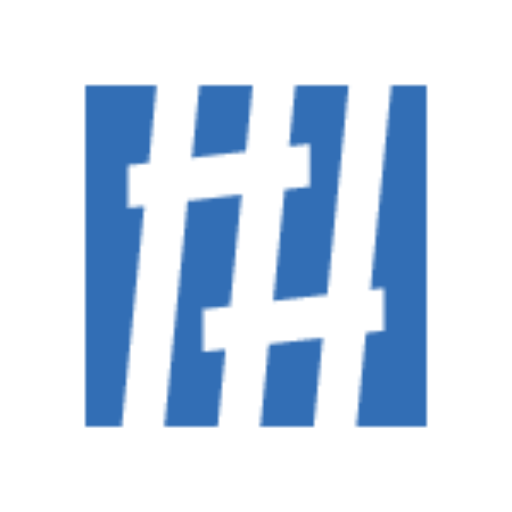
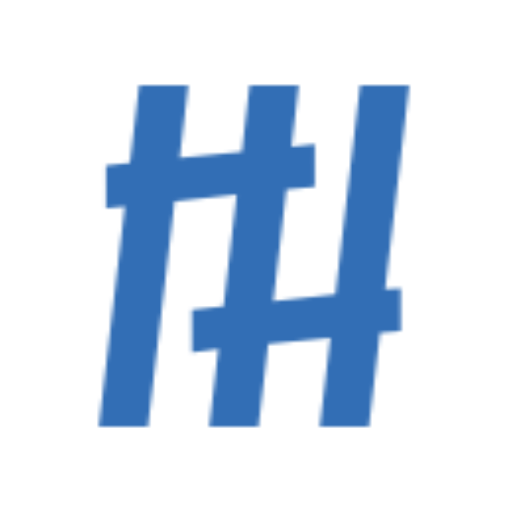
docs: style

diff --git a/index.html b/index.html
@@ -22,7 +22,7 @@
 </head>
 <body>
   <div class="s-header">
-    <svg class="s-header__logo" viewBox="0 0 311 149" fill="none" xmlns="http://www.w3.org/2000/svg"><path d="M172.38 16h-10l-1.17 11.45L165 27v8l-4.62.54-2.14 20.9 10.12-1.19L172.38 16zM175.63 62.4L179 62v-8l-2.54.3 3.92-38.3H187v64h-13.18l1.8-17.6zM167.53 63.35l-10.12 1.19L155.82 80h10l1.7-16.65zM150.14 57.4L145 58v8l4.3-.5-1.48 14.5h-10l4.34-42.31 10.12-1.2-2.14 20.9zM154.38 16l-1.27 12.4L143 29.59 144.4 16h10zM131 31l3.9-.46L136.37 16H123v64h6.82l4.24-41.36L131 39v-8z" fill="#326EB5"/><path d="M20.39 103.01h8.57c3.75 0 6.58.56 8.48 1.68 1.93 1.1 2.9 3.01 2.9 5.76 0 1.76-.5 3.23-1.47 4.4a7 7 0 01-4.24 2.23v.21c1.26.2 2.39.56 3.4 1.1a5.95 5.95 0 012.43 2.26c.6.98.89 2.26.89 3.82 0 2.72-.94 4.82-2.82 6.3-1.85 1.49-4.38 2.23-7.6 2.23H20.39v-29.99zm3.78 12.77h5.54c2.58 0 4.34-.4 5.3-1.22.95-.84 1.42-2.07 1.42-3.7 0-1.65-.59-2.82-1.76-3.52-1.15-.73-3-1.1-5.55-1.1h-4.95v9.54zm0 3.15v10.88h6.05c2.66 0 4.5-.52 5.54-1.56a5.5 5.5 0 001.55-4.07c0-1.57-.54-2.83-1.63-3.78-1.07-.98-2.99-1.47-5.76-1.47h-5.75zm31.56-8.82c2.74 0 4.77.6 6.09 1.8 1.31 1.21 1.97 3.13 1.97 5.76V133H61.1l-.71-3.2h-.17a10.3 10.3 0 01-3.1 2.74c-1.07.59-2.56.88-4.46.88a7.93 7.93 0 01-5.08-1.6c-1.35-1.09-2.02-2.78-2.02-5.08 0-2.24.88-3.96 2.65-5.16 1.76-1.24 4.48-1.9 8.15-2.02l3.82-.13v-1.34c0-1.88-.4-3.18-1.22-3.9a4.98 4.98 0 00-3.44-1.1c-1.18 0-2.3.18-3.36.55-1.07.33-2.06.73-2.99 1.17l-1.13-2.77c.98-.53 2.14-.98 3.49-1.34 1.34-.4 2.74-.59 4.2-.59zm4.4 11.89l-3.31.12c-2.8.11-4.75.56-5.84 1.35a3.88 3.88 0 00-1.6 3.31c0 1.26.38 2.19 1.14 2.78.78.58 1.78.88 2.98.88 1.9 0 3.49-.52 4.75-1.56 1.26-1.06 1.89-2.68 1.89-4.87V122zm35.3-11.93c2.56 0 4.46.66 5.72 1.97 1.26 1.29 1.9 3.39 1.9 6.3V133h-3.66v-14.49c0-3.56-1.53-5.33-4.58-5.33-2.19 0-3.75.63-4.7 1.89-.93 1.26-1.4 3.09-1.4 5.5V133h-3.65v-14.49c0-3.56-1.54-5.33-4.62-5.33-2.26 0-3.83.7-4.7 2.1-.87 1.4-1.3 3.41-1.3 6.04V133h-3.7v-22.51h2.98l.55 3.06h.21a6.46 6.46 0 012.81-2.6 8.6 8.6 0 013.83-.88c3.52 0 5.82 1.26 6.88 3.78h.21a7 7 0 013.07-2.86 9.7 9.7 0 014.16-.92zm18.26-8.99v7.77c0 .95-.03 1.85-.08 2.69-.03.81-.07 1.45-.13 1.93h.21a7.84 7.84 0 012.65-2.4 8.6 8.6 0 014.32-.96c2.8 0 5.04.98 6.72 2.94 1.71 1.93 2.56 4.83 2.56 8.7 0 3.86-.85 6.77-2.56 8.73a8.48 8.48 0 01-6.72 2.94 8.6 8.6 0 01-4.32-.97 8.26 8.26 0 01-2.65-2.3h-.3l-.75 2.85H110v-31.92h3.7zm6.34 12.1c-2.38 0-4.03.68-4.95 2.05-.93 1.38-1.39 3.5-1.39 6.39v.17c0 2.77.45 4.9 1.34 6.38.93 1.46 2.62 2.18 5.09 2.18 2.01 0 3.51-.74 4.5-2.22 1-1.49 1.5-3.63 1.5-6.43 0-5.68-2.03-8.52-6.09-8.52zm35.38 8.52c0 3.73-.95 6.61-2.86 8.65-1.88 2.05-4.42 3.07-7.64 3.07-2 0-3.77-.45-5.34-1.34a9.72 9.72 0 01-3.65-4c-.9-1.76-1.34-3.89-1.34-6.38 0-3.72.93-6.6 2.8-8.6 1.88-2.02 4.43-3.03 7.65-3.03 2.05 0 3.84.46 5.38 1.38a9.1 9.1 0 013.65 3.95c.9 1.71 1.35 3.81 1.35 6.3zm-17.01 0c0 2.66.51 4.78 1.55 6.34 1.06 1.54 2.75 2.31 5.04 2.31 2.27 0 3.94-.77 5-2.3 1.06-1.57 1.6-3.69 1.6-6.35 0-2.66-.54-4.74-1.6-6.26-1.06-1.5-2.75-2.26-5.04-2.26-2.3 0-3.96.75-5 2.26-1.03 1.52-1.55 3.6-1.55 6.26zm42.44 0c0 3.73-.96 6.61-2.86 8.65-1.88 2.05-4.42 3.07-7.64 3.07-2 0-3.77-.45-5.34-1.34a9.72 9.72 0 01-3.65-4c-.9-1.76-1.35-3.89-1.35-6.38 0-3.72.94-6.6 2.82-8.6 1.87-2.02 4.42-3.03 7.64-3.03 2.05 0 3.84.46 5.38 1.38a9.1 9.1 0 013.65 3.95c.9 1.71 1.35 3.81 1.35 6.3zm-17.01 0c0 2.66.51 4.78 1.55 6.34 1.06 1.54 2.74 2.31 5.04 2.31 2.27 0 3.93-.77 5-2.3 1.06-1.57 1.6-3.69 1.6-6.35 0-2.66-.54-4.74-1.6-6.26-1.07-1.5-2.75-2.26-5.04-2.26-2.3 0-3.96.75-5 2.26-1.04 1.52-1.55 3.6-1.55 6.26zm51.29 3.28c0 2.66-.97 4.73-2.9 6.21-1.93 1.49-4.54 2.23-7.81 2.23-1.68 0-3.24-.13-4.66-.38-1.43-.25-2.62-.6-3.57-1.05v-3.61c1 .45 2.25.85 3.73 1.22 1.52.36 3.07.54 4.67.54 2.24 0 3.92-.43 5.04-1.3a4.19 4.19 0 001.72-3.53c0-.98-.21-1.8-.63-2.47a5.68 5.68 0 00-2.19-1.85c-1-.59-2.42-1.2-4.24-1.85-2.55-.92-4.48-2.06-5.8-3.4-1.28-1.35-1.93-3.18-1.93-5.5 0-1.6.41-2.96 1.22-4.08a7.77 7.77 0 013.36-2.64c1.46-.62 3.12-.93 5-.93a19.51 19.51 0 018.27 1.68l-1.17 3.24a22.02 22.02 0 00-3.4-1.14 15.2 15.2 0 00-3.78-.46c-1.88 0-3.3.4-4.25 1.22a3.87 3.87 0 00-1.42 3.15c0 1 .2 1.85.63 2.52.42.67 1.1 1.27 2.05 1.8.96.54 2.24 1.11 3.87 1.73 1.76.64 3.25 1.34 4.45 2.1a7.66 7.66 0 012.77 2.64c.65 1.04.97 2.34.97 3.9zm13.05 5.42c.56 0 1.14-.05 1.73-.13.58-.11 1.06-.22 1.42-.34v2.82c-.39.2-.95.35-1.68.46-.72.14-1.42.21-2.1.21-1.17 0-2.26-.2-3.27-.59a5.18 5.18 0 01-2.4-2.14c-.61-1-.92-2.42-.92-4.24v-13.1h-3.2v-1.77l3.24-1.47 1.47-4.79h2.19v5.17h6.5v2.85h-6.5v13.02c0 1.38.32 2.4.96 3.07.67.64 1.53.97 2.56.97zm16.19-20.29c2.74 0 4.77.6 6.09 1.8 1.31 1.21 1.97 3.13 1.97 5.76V133h-2.69l-.71-3.2h-.17a10.3 10.3 0 01-3.1 2.74c-1.07.59-2.56.88-4.46.88a7.93 7.93 0 01-5.08-1.6c-1.34-1.09-2.02-2.78-2.02-5.08 0-2.24.88-3.96 2.65-5.16 1.76-1.24 4.48-1.9 8.15-2.02l3.82-.13v-1.34c0-1.88-.4-3.18-1.22-3.9a4.98 4.98 0 00-3.44-1.1c-1.18 0-2.3.18-3.36.55-1.07.33-2.06.73-2.98 1.17l-1.14-2.77c.98-.53 2.14-.98 3.49-1.34 1.34-.4 2.74-.59 4.2-.59zm4.4 11.89l-3.31.12c-2.8.11-4.75.56-5.84 1.35a3.88 3.88 0 00-1.6 3.31c0 1.26.38 2.19 1.14 2.78.78.58 1.78.88 2.98.88 1.9 0 3.49-.52 4.75-1.56 1.26-1.06 1.89-2.68 1.89-4.87V122zm18.13 8.4c.56 0 1.14-.05 1.72-.13.6-.11 1.07-.22 1.43-.34v2.82c-.39.2-.95.35-1.68.46-.73.14-1.43.21-2.1.21-1.17 0-2.27-.2-3.27-.59a5.18 5.18 0 01-2.4-2.14c-.61-1-.92-2.42-.92-4.24v-13.1h-3.2v-1.77l3.24-1.47 1.47-4.79h2.18v5.17h6.51v2.85h-6.5v13.02c0 1.38.32 2.4.96 3.07.67.64 1.53.97 2.56.97zm16.35-20.33c1.94 0 3.59.42 4.96 1.26a8.08 8.08 0 013.2 3.57 11.8 11.8 0 011.13 5.33v2.23H277.1c.06 2.55.7 4.5 1.93 5.84 1.26 1.31 3.01 1.97 5.25 1.97 1.43 0 2.7-.13 3.78-.38a22.8 22.8 0 003.45-1.17v3.23c-1.15.5-2.28.87-3.4 1.1-1.13.24-2.45.37-4 .37a12 12 0 01-5.67-1.3 9.25 9.25 0 01-3.82-3.87 13.7 13.7 0 01-1.34-6.34c0-2.46.4-4.58 1.22-6.34a9.6 9.6 0 013.48-4.07 9.64 9.64 0 015.25-1.43zm-.04 3.02c-1.76 0-3.16.58-4.2 1.72-1 1.12-1.6 2.7-1.8 4.7h11.46a7.8 7.8 0 00-1.34-4.61c-.87-1.2-2.24-1.8-4.12-1.8z" fill="#000"/></svg>
+    <img class="s-header__logo" src="./site/resources/logo.svg">
   </div>
 
   <div class="s-container">
@@ -30,25 +30,28 @@
       <h2>What is Bamboo State?</h2>
 
       <p>Bamboo State is a stand-alone state management library written for <i>Bamboo</i>.</p>
-    </div>
-  </div>
 
-  <div class="s-docs">
-    <h2 class="s-docs__title">Documentation</h2>
+      <div class="s-docs">
+        <h2 class="s-docs__title">Documentation</h2>
 
-    <h3 class="s-docs__title">Lorem Ipsum</h3>
+        <h3 class="s-docs__title">Lorem Ipsum</h3>
 
-    <div class="s-docs__block">
-      <div class="s-docs__left">
-        <p class="s-docs__text">Lorem ipsum dolor sit amet, consectetur adipisicing elit. Placeat maiores quis quaerat velit esse natus, omnis nihil distinctio inventore itaque maxime fugiat repellendus quia quod rem debitis quibusdam repellat! Nesciunt.</p>
+        <div class="s-docs__block">
+          <div class="s-docs__left">
+            <p class="s-docs__text">Lorem ipsum dolor sit amet, consectetur adipisicing elit. Placeat maiores quis quaerat velit esse natus, omnis nihil distinctio inventore itaque maxime fugiat repellendus quia quod rem debitis quibusdam repellat! Nesciunt.</p>
+          </div>
+          <div class="s-docs__right">
+            <pre><code class="language-javascript">
+              const = "Lorem ipsum dolor sit amet, consectetur adipisicing elit. Ea dicta possimus, quaerat suscipit aliquam, minima nemo quae quia quidem deserunt ab nam! Nihil qui, neque sint fugiat nam assumenda explicabo.";
+            </code></pre>
+          </div>
+        </div>
+
       </div>
-      <div class="s-docs__right">
-        <pre><code class="language-javascript">
-          const = "Lorem ipsum dolor sit amet, consectetur adipisicing elit. Ea dicta possimus, quaerat suscipit aliquam, minima nemo quae quia quidem deserunt ab nam! Nihil qui, neque sint fugiat nam assumenda explicabo.";
-        </code></pre>
-      </div>
-    </div>
 
+      <hr>
+
+    </div>
   </div>
 
   <script src="./index.js"></script>

diff --git a/site/style.css b/site/style.css
@@ -11,21 +11,19 @@ html{
 body{
     font-size:16px;
     line-height:24px;
-    margin:auto
+    margin:64px auto
 }
 h1{
     font-size:64px;
     line-height:72px;
     margin-top:24px;
-    margin-bottom:48px;
-    text-align:center
+    margin-bottom:48px
 }
 h2{
     font-size:40px;
     line-height:48px;
     margin-top:24px;
-    margin-bottom:24px;
-    text-align:center
+    margin-bottom:24px
 }
 h3{
     font-size:25px;
@@ -54,8 +52,9 @@ ol ol,ol ul,ul ol,ul ul{
     margin-bottom:0
 }
 hr{
-    border:1px solid;
-    margin:-1px 0
+    border:0;
+    border-bottom:1px solid #e7e9ed;
+    margin:64px 0
 }
 a,b,code,em,i,small,strong{
     line-height:0
@@ -101,21 +100,24 @@ pre[class*=language-javascript]:before{
     -webkit-box-align:center;
     -ms-flex-align:center;
     align-items:center;
+    background:#fff;
+    box-shadow:0 1px 4px 0 rgba(0,0,0,.1);
     display:-webkit-box;
     display:-ms-flexbox;
     display:flex;
-    -webkit-box-orient:vertical;
-    -webkit-box-direction:normal;
-    -ms-flex-direction:column;
-    flex-direction:column;
-    height:192px;
-    -webkit-box-pack:center;
-    -ms-flex-pack:center;
-    justify-content:center;
-    margin:64px 0
+    height:64px;
+    left:0;
+    padding:0 64px;
+    position:fixed;
+    top:0;
+    width:100%;
+    z-index:100
 }
 .s-header__logo{
-    height:192px
+    height:48px
+}
+.s-container {
+    padding:64px 0
 }
 .s-content{
     margin:auto;
@@ -130,8 +132,7 @@ pre[class*=language-javascript]:before{
     text-align:right
 }
 .s-docs__title{
-    margin:64px 0;
-    text-align:center
+    margin:32px 0 0
 }
 .s-docs__block{
     display:-webkit-box;
@@ -139,9 +140,6 @@ pre[class*=language-javascript]:before{
     display:flex;
     -ms-flex-wrap:wrap;
     flex-wrap:wrap
-}
-.s-docs__block:nth-child(even){
-    background:#f1f3f4
 }
 .s-docs__block:nth-child(even) .s-docs__right{
     background:#272822
@@ -152,9 +150,9 @@ pre[class*=language-javascript]:before{
 .s-docs__left,.s-docs__right{
     -webkit-box-flex:0;
     -ms-flex:0 0 auto;
-    flex:0 0 auto;
-    padding:64px;
-    width:50%
+    flex:1 1 auto;
+    padding:64px 0;
+    width:100%
 }
 .s-docs__right{
     -webkit-box-pack:center;
